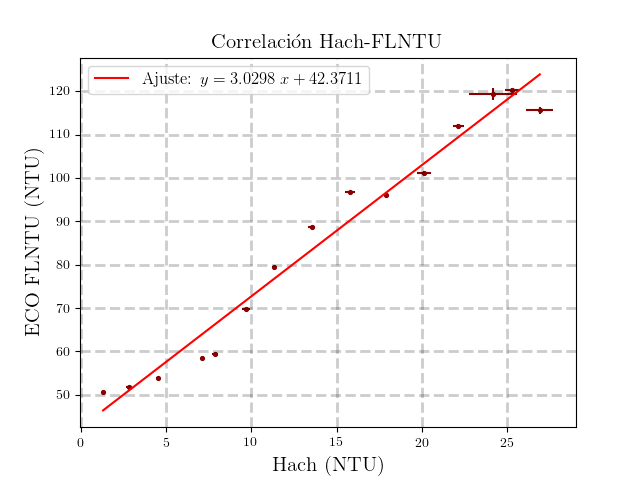
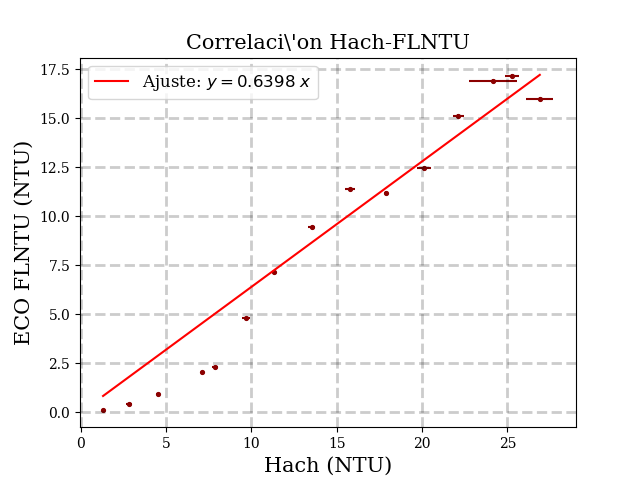
Pasado de counts a NTU.

diff --git a/FLNTU/FLNTU.py b/FLNTU/FLNTU.py
@@ -12,7 +12,7 @@ import numpy as np
 import matplotlib.pyplot as plt
 import glob
 from scipy.optimize import curve_fit
-
+#from scipy.odr import Model,RealData,ODR
 
 path = os.path.dirname(os.path.realpath('__file__'))
 sys.path.append(path)
@@ -24,7 +24,7 @@ NumberSize=10
 
 plt.close('all')
 
-plt.rc('text', usetex=True)
+plt.rc('text', usetex=False)
 plt.rc('font', family='serif')
 
 #%%
@@ -97,15 +97,28 @@ for file in files:
 
 # Ajuste:
 
-x = tabla['hach']
-y = tabla['ntu']
+# De la hoja de caracterización del FLNTU:
 
-def modelo(x, a, b):
-        return a*x+ b
-                                                                    
+DC = 50 # counts
+SF = 0.2438 # NTU/counts
+
+
+x = tabla['hach']
+y = SF * (tabla['ntu'] - DC)
+
+#x = list(x)
+#y = list(y)
+
+x_err = tabla['hach_err']
+y_err = SF*tabla['ntu_err']
+
+
+def lineal(x, a):
+    return a*x 
+
 parametros_iniciales  = [0.5,0]
 
-popt, pcov = curve_fit(modelo, x, y, p0=None)    
+popt, pcov = curve_fit(lineal, x, y, p0=None)
 
 pstd = np.sqrt(np.diag(pcov))
 nombres_de_param = ['a', 'b']
@@ -120,9 +133,10 @@ for c, v in enumerate(popt):
 
 plt.figure()
 
-plt.errorbar(tabla['hach'],tabla['ntu'], xerr=tabla['hach_err'], yerr=tabla['hach_err'], fmt='.',color='darkred', label=r'', ms=5.5, zorder=0)
+plt.errorbar(x,y, xerr=x_err, yerr=y_err, fmt='.',color='darkred', label=r'', ms=5.5, zorder=0)
 
-plt.plot(x, modelo(x, *popt), 'r-', label=r'Ajuste: $y = %.4f \; x + %.4f $'%(popt[0],popt[1]))#, lw=2.5, zorder=4)
+plt.plot(x, lineal(x, *popt), 'r-', label=r'Ajuste: $y = %.4f \; x $'%(popt[0]))
+
 
 plt.legend(loc='best', fontsize=LegendSize)
 plt.title(r'Correlaci\'on Hach-FLNTU', fontsize=TitleSize)
